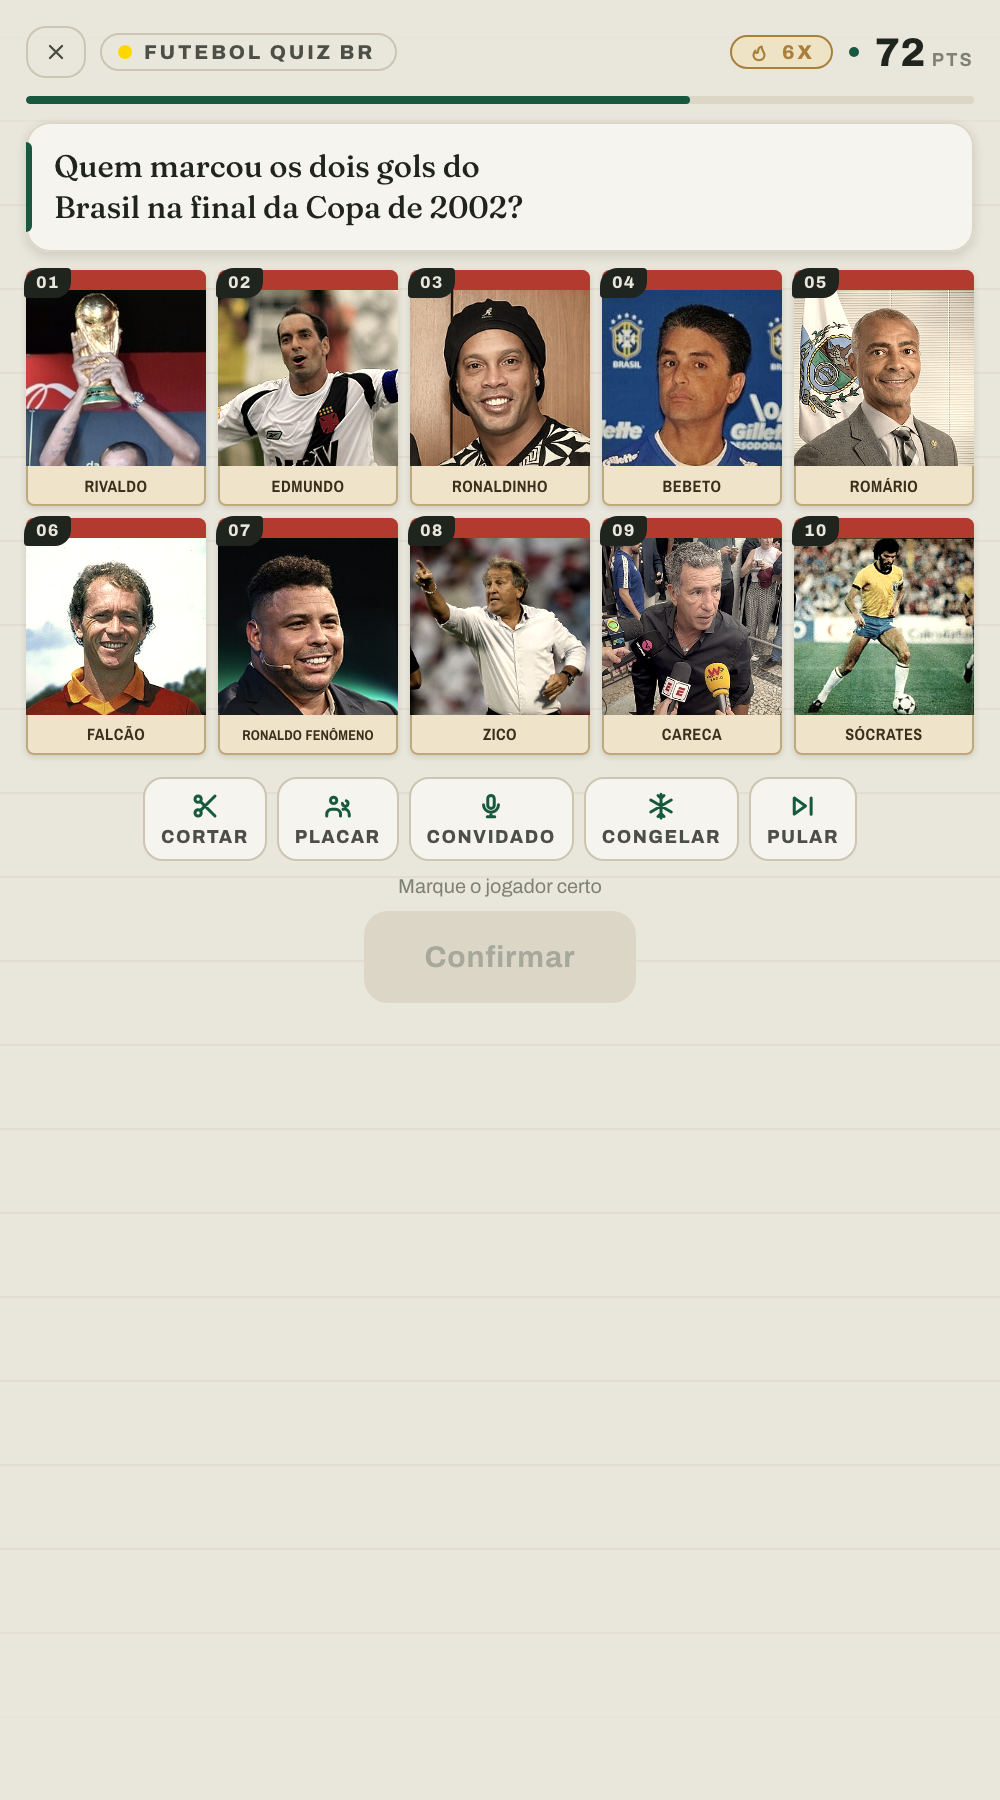
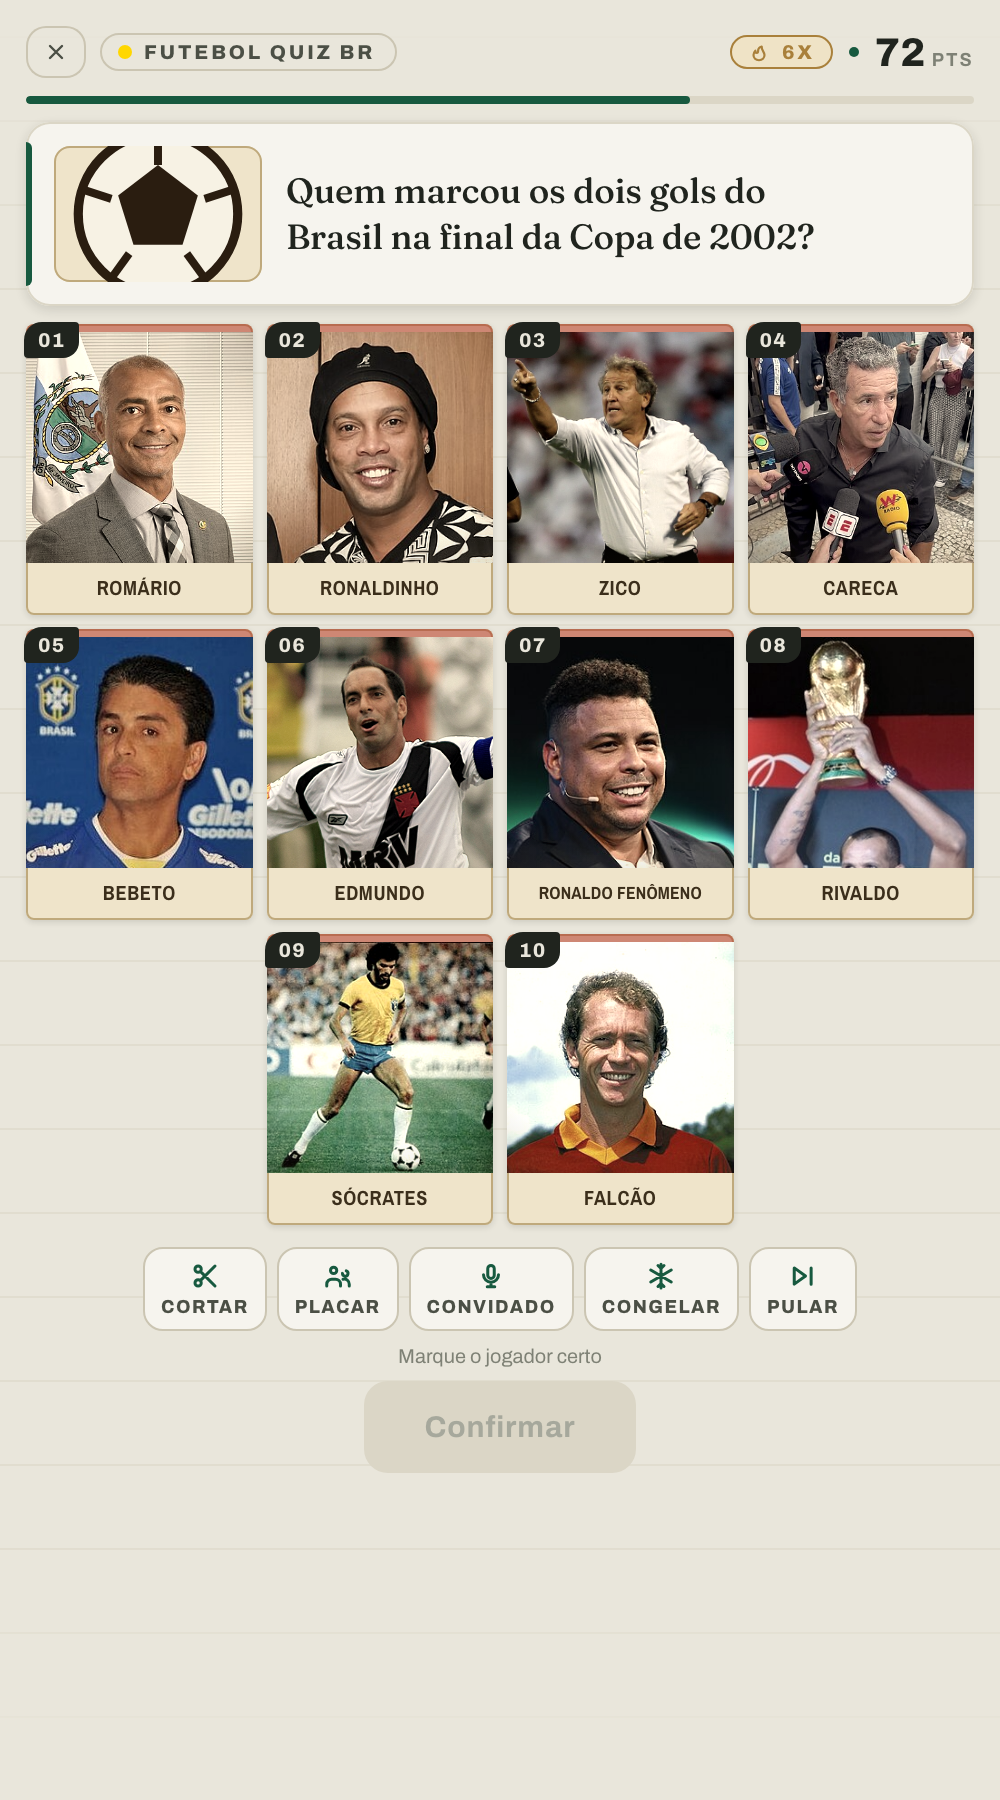
Collapse the sticker band when it has nothing to print
A board that hides both the country and the decade left the band as a
full-height red bar with no text in it, which reads as missing text
rather than as a deliberate blank. It collapses to a slim rule: the card
keeps its silhouette and says nothing it should not.

Small screens also get their text pockets back near their old height —
ten of them is five rows, and at 52px they pushed CONFIRMAR off a 568px
screen. 320, 360, 390 and 412 all clean again, and eleven consecutive
test runs pass.

Play screenshots re-cut.

Claude-Session: https://claude.ai/code/session_01AeDN92YGYdCLcJmAVMuuVY

diff --git a/index.html b/index.html
@@ -279,6 +279,12 @@
       box-shadow: 0 1px 3px var(--shadow); }
     .fig-band { flex: none; font-family: var(--font-c); font-weight: 700; text-transform: uppercase;
       text-align: center; white-space: nowrap; overflow: hidden; text-overflow: ellipsis; }
+    /* A board that hides both the country and the decade leaves the band with
+       nothing to print. A full-height coloured bar with no text in it reads as
+       missing text, so it collapses to a slim rule — the card keeps its
+       silhouette and says nothing it should not. */
+    .fig-band-mute { font-size: 0 !important; padding: 0 !important;
+      height: 4px; opacity: .55; }
     .fig-art { flex: none; position: relative; overflow: hidden; }
     .fig-shot { position: relative; overflow: hidden; background: var(--rule-2); height: 100%; }
     .fig-shot img { width: 100%; height: 100%; object-fit: cover; object-position: top center;
@@ -729,9 +735,11 @@
       .fig-sm .fig-flag { width: 10px; height: 7px; }
       .tab { font-size: 8.5px; padding: 2px 6px; }
       .qcard p { font-size: 15.5px; }
-      .b-text { min-height: 52px; padding: 10px 9px 10px 21px; }
-      .b-text .tile-name { font-size: 11.5px; }
-      .b-text .tile-name-long { font-size: 10.5px; }
+      /* ten text pockets is five rows; at 52px they pushed CONFIRMAR off a
+         568px-tall screen, so here they stay close to their old height. */
+      .b-text { min-height: 45px; padding: 8px 8px 8px 20px; }
+      .b-text .tile-name { font-size: 10.8px; }
+      .b-text .tile-name-long { font-size: 9.8px; }
       .qart-wide { width: 88px; height: 58px; }
       .qart-face { width: 56px; height: 56px; }
       .qart-flag { width: 66px; height: 44px; }
@@ -5113,7 +5121,7 @@ function figurinha(p, size, opts) {
     /* the header band carries the country and the decade, the way the old
        albums carried the tournament — unless this board must not say so */
     return `<span class="fig fig-retro fig-${size}">
-      <span class="fig-band">${bandTxt || '&nbsp;'}</span>
+      <span class="fig-band${bandTxt ? '' : ' fig-band-mute'}">${bandTxt || ''}</span>
       <span class="fig-art">${shot}</span>
       <span class="fig-cap"><span class="${nmCls}">${p.n}</span>
       ${sub ? `<span class="fig-sub">${sub}</span>` : ''}</span>
@@ -5128,10 +5136,11 @@ function figurinha(p, size, opts) {
   /* Country alone normally — "BRASIL 2001" ran out of band whatever the font.
      When the country is being hidden the decade takes its place, so a modern
      card does not sit blank-headed in a row of cards showing one. */
+  const mBand = opts.hideCtry
+    ? (opts.hideEra || !yr ? '' : String(Math.floor(yr / 10) * 10).slice(2))
+    : bandCtry(p.ctry);
   return `<span class="fig fig-modern fig-${size}">
-    <span class="fig-band">${(opts.hideCtry
-      ? (opts.hideEra || !yr ? '' : String(Math.floor(yr / 10) * 10).slice(2))
-      : bandCtry(p.ctry)) || '&nbsp;'}</span>
+    <span class="fig-band${mBand ? '' : ' fig-band-mute'}">${mBand}</span>
     <span class="fig-art">
       ${opts.hideCtry ? '' : `<span class="blob" style="background:${c1};width:54%;height:58%;left:0;top:10%;"></span>
       <span class="blob" style="background:${c2};width:42%;height:46%;right:0;top:34%;"></span>`}
